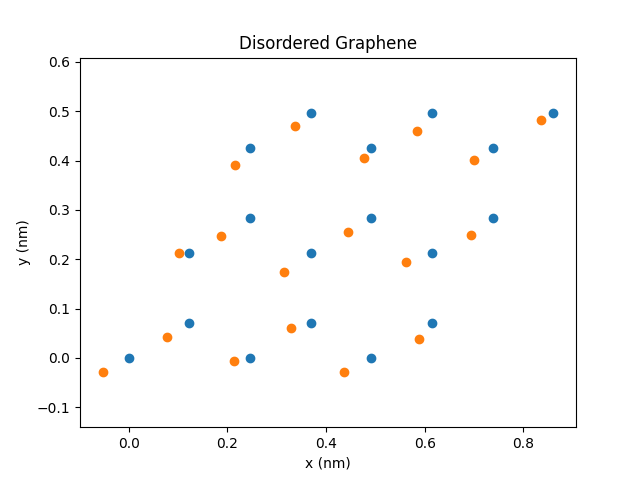
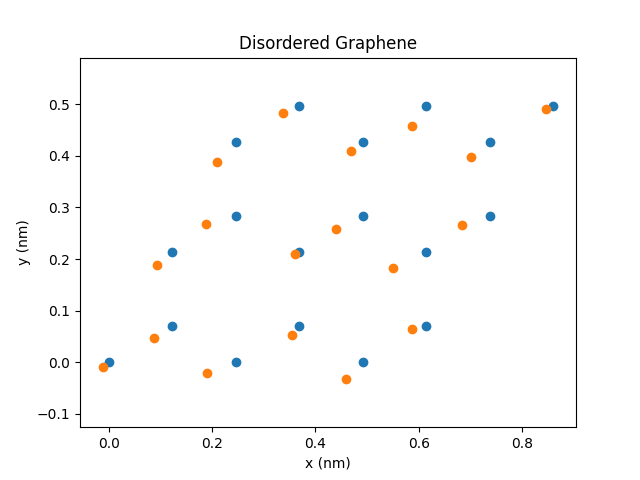
grispy problems

diff --git a/simpletb/system.py b/simpletb/system.py
@@ -4,7 +4,15 @@ import grispy as gsp
 
 class System():
 
-    def __init__(self, site_list, lattice_vectors, upper_radii=0.42):
+    def __init__(self, site_list, lattice_vectors, upper_radii=0.42, lower_radii=0):
+        """
+
+        Args:
+            site_list ():
+            lattice_vectors ():
+            upper_radii ():
+            lower_radii ():
+        """
 
         self.site_list = site_list
         self.lattice_vectors = lattice_vectors
@@ -18,9 +26,10 @@ class System():
 
         # must be set to 1 because this will work on the coordinates
         self.grid_periodic = {0: (0, 1), 1: (0, 1), }  # 1: (0, 0)
+        # self.grid_periodic = {0:  tuple(self.lattice_vectors[0]), 1: tuple(self.lattice_vectors[0]), }  # 1: (0, 0)
 
-        self.upper_radii=upper_radii
-        self.lower_radii=0
+        self.upper_radii = upper_radii
+        self.lower_radii = lower_radii
 
     def get_onsite(self):
         """
@@ -67,37 +76,42 @@ class System():
         site_xyz = []
 
         for site_key in self.site_list.keys():
-            coord_xyz = xyz_to_local(self.site_list[site_key].xyz, self.lattice_vectors)
-
+            # coord_xyz = xyz_to_local(self.site_list[site_key].xyz, self.lattice_vectors)
+            coord_xyz = self.site_list[site_key].xyz
             site_xyz.append(coord_xyz)
         return np.array(site_xyz)
 
-    def lattice_metric(self, site_0, centres, dim):
-        """
-
-        Computes the distance between site_0 and etch center
-        Args:
-            site_0 (Tensor): tensor with x,y,z in local coordinates
-            centres (List[Tensors]):  list of the center coordinates in local coordinates
-            dim (int):  dim of the site_0 integer representing the nr of elements in the vector site_0
-                        not used rith now but required
-
-        Returns: distances list of the distances to etch tensor
-
-        """
-
-        # concert site from lattice to xyz coordinates:
-        s_xyz = local_to_xyz(site_0, self.lattice_vectors)
-
-        distances = np.empty(len(centres))
-        for idx, center in enumerate(centres):
-            # mouve center back in real coordinates:
-            c_xyz = local_to_xyz(center, self.lattice_vectors)
-
-            # store the distance
-            distances[idx] = np.linalg.norm(c_xyz - s_xyz)
-
-        return distances
+    # def lattice_metric(self, site_0, centres, dim):
+    #     """
+    #
+    #     Computes the distance between site_0 and etch center
+    #     Args:
+    #         site_0 (Tensor): tensor with x,y,z in local coordinates
+    #         centres (List[Tensors]):  list of the center coordinates in local coordinates
+    #         dim (int):  dim of the site_0 integer representing the nr of elements in the vector site_0
+    #                     not used rith now but required
+    #
+    #     Returns: distances list of the distances to etch tensor
+    #
+    #     """
+    #
+    #     # concert site from lattice to xyz coordinates:
+    #     # s_xyz = local_to_xyz(site_0, self.lattice_vectors)
+    #     s_xyz = site_0
+    #
+    #     distances = np.empty(len(centres))
+    #
+    #     # TODO:
+    #     # Do it with matrix multiplication so it will be faster
+    #     for idx, center in enumerate(centres):
+    #         # mouve center back in real coordinates:
+    #         # c_xyz = local_to_xyz(center, self.lattice_vectors)
+    #         c_xyz = center
+    #         # store the distance
+    #         distances[idx] = np.linalg.norm(c_xyz - s_xyz)
+    #
+    #     print("d:", distances)
+    #     return distances
 
     def compute_neighbours(self):
         """
@@ -110,14 +124,21 @@ class System():
 
         grid = gsp.GriSPy(site_coord,
                           periodic=self.grid_periodic,
-                          metric=self.lattice_metric, )
+                          # metric=self.lattice_metric,
+                          )
 
         upper_radii = self.upper_radii
         lower_radii = self.lower_radii
-        shell_dist, shell_ind = grid.shell_neighbors(centres=site_coord,
-                                                     distance_lower_bound=lower_radii,
-                                                     distance_upper_bound=upper_radii, )
+        # Go from buble to shell
+        #bubble
+        # shell_dist, shell_ind = grid.bubble_neighbors(centres=site_coord,
+        #                                               # distance_lower_bound=lower_radii,
+        #                                               distance_upper_bound=upper_radii, )
+        shell_dist, shell_ind = grid.nearest_neighbors(centres=site_coord[:2],
+                                                     n=1 )
 
+        print("sd:", shell_dist)
+        print("shell_ind:", shell_ind)
         neighbours = {}
 
         for sit_key in self.site_list.keys():
@@ -133,12 +154,14 @@ class System():
 
         """
         hoppings = []
-        for site_a_id in self.site_list:
-            for site_b_id in self.get_neighbours():
-                if site_a_id!=site_b_id:
+        neighbours = self.get_neighbours()
+        for site_a_id in self.site_list.keys():
+            for site_b_id in neighbours[site_a_id]:
+
+                if site_a_id != site_b_id:
                     sa = self.site_list[site_a_id]
                     sb = self.site_list[site_b_id]
-                    hopping_value = self.hopping_calculator(sa, sb)
+                    hopping_value = self.hopping_calculator(self, sa, sb)
                     hoppings.append([site_a_id, site_b_id, hopping_value])
 
         self.hopping = hoppings
@@ -152,7 +175,7 @@ class System():
         """
         onsite = []
         for site_a_id in self.site_list:
-            onsite.append([site_a_id, self.onsite_calculator(self.site_list[site_a_id])])
+            onsite.append([site_a_id, self.onsite_calculator(self, self.site_list[site_a_id])])
 
         self.onsite = onsite
 
@@ -171,11 +194,11 @@ class System():
         for i, os in enumerate(onsite):
             mat[os[0]][os[0]] = os[1]
 
+        print("hopping", hopping)
         for i, hop in enumerate(hopping):
-            mat[hop[0]][hop[2]] = hop[2]
+            mat[hop[0]][hop[1]] = hop[2]
 
         return mat
-
 
 
 def _hopping_calculator(self, site_a, site_b):

diff --git a/xyz_to_system.py b/xyz_to_system.py
@@ -8,6 +8,7 @@ import periodictable
 import numpy as np
 import matplotlib.pyplot as plt
 
+
 # Some plotting functions for visualization
 def plot_heatmap(matrix):
     plt.figure(figsize=(8, 6))
@@ -19,11 +20,9 @@ def plot_heatmap(matrix):
     plt.show()
 
 
-
 def main():
-
     """
-    Exampe of how to use simpleTB
+    Example of how to use simpleTB
     Returns:
 
     """
@@ -34,11 +33,6 @@ def main():
     print("lattice_vectors:", lattice_vectors)
     print("atom_types:", atom_types)
     print("coordinates:", coordinates)
-
-    lattice_vectors=np.array([[26.88  ,      0.  ,        0.        ],
-                              [ 0.   ,       7.    ,      0.        ],
-                        [ 0.      ,    0.   ,      24.59512147]])
-
 
     # Construct the system elements:
     syte_list = {}
@@ -51,16 +45,31 @@ def main():
                                 "dummy": "73",
                             })
 
+    def hopping_calculator(self, site_a, site_b):
+        t10 = -2.414
+        t20 = -0.168
 
-    def hopping_calculator(site_a, site_b):
-        return 7
+        r = np.linalg.norm(site_a.xyz - site_b.xyz)
+        if r <= (1 + np.sqrt(3)) * 1.24 / 2:
+            t = t10 * np.exp(1.847 * (r - 1.24))
+        elif r <= (2 + np.sqrt(3)) * 1.24:
+            t = t20 * np.exp(-0.168 * (r - 1.24 * np.sqrt(3)))
+        else:
+            t = 0
 
+        return t
 
-    def onsite_calculator(site_a):
-        return 9
+    def onsite_calculator(self, site_a):
 
+        onsite = 9
+        simbol = site_a.label.split("_")[0]
+        if simbol == "C":
+            onsite = 2
+        else:
+            onsite = 3
+        return onsite
 
-    material = System(syte_list, lattice_vectors, upper_radii=1 )
+    material = System(syte_list, lattice_vectors, upper_radii=0.9, lower_radii=-1)
 
     material.hopping_calculator = hopping_calculator
     material.onsite_calculator = onsite_calculator
@@ -73,5 +82,5 @@ def main():
     plt.show()
 
 
-
-main()
+if __name__ == "__main__":
+    main()

diff --git a/simpletb/read_xyz.py b/simpletb/read_xyz.py
@@ -8,8 +8,6 @@ from ase.io import read
 import numpy as np
 
 
-
-
 def parse_xyz_file(filename):
     """
 
@@ -22,9 +20,28 @@ def parse_xyz_file(filename):
     atoms = read(filename, format='xyz')
     atom_types = atoms.get_chemical_symbols()
     coordinates = atoms.get_positions()
-    lattice_vectors= atoms.get_cell()
-
+    lattice_vectors = parse_lattice_vectors(filename)
 
     return lattice_vectors, atom_types, coordinates
 
 
+def parse_lattice_vectors(filename):
+    """
+     required for ase xyz files.
+    Args:
+        filename (str): path to the xyz file
+
+    Returns:
+
+    """
+    with open(filename, 'r') as f:
+        # Read the second line
+        second_line = f.readlines()[1].strip()
+
+        # Extract lattice vectors from the second line
+        lattice_str = second_line.split('Lattice="')[1]
+        lattice_str=lattice_str.split('" ')[0]
+        lattice_values = [float(val) for val in lattice_str.split()]
+        lattice_vectors = np.array(lattice_values).reshape(3, 3)
+
+    return lattice_vectors
